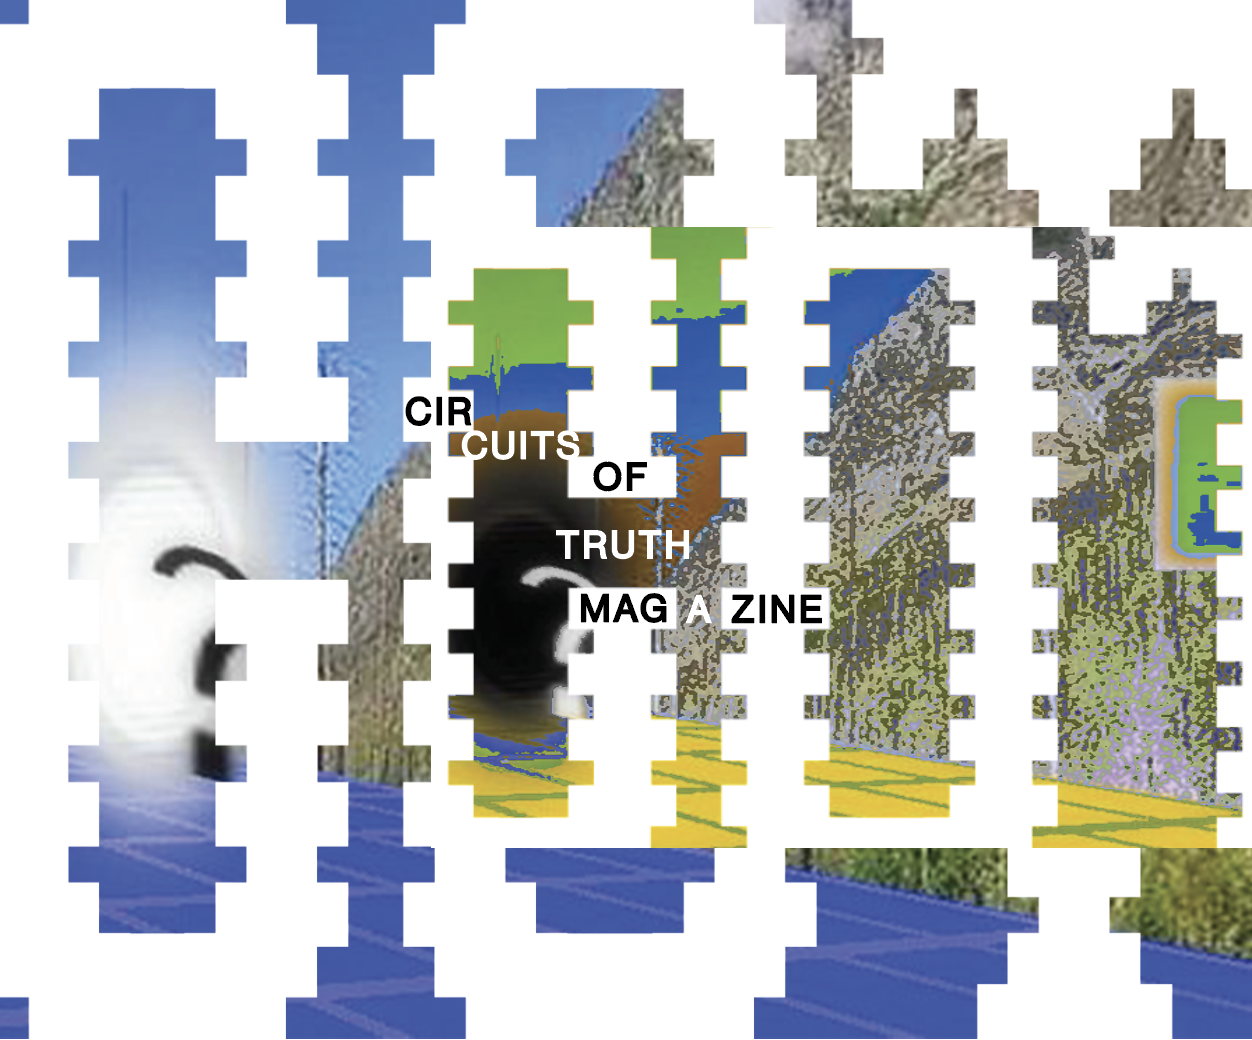
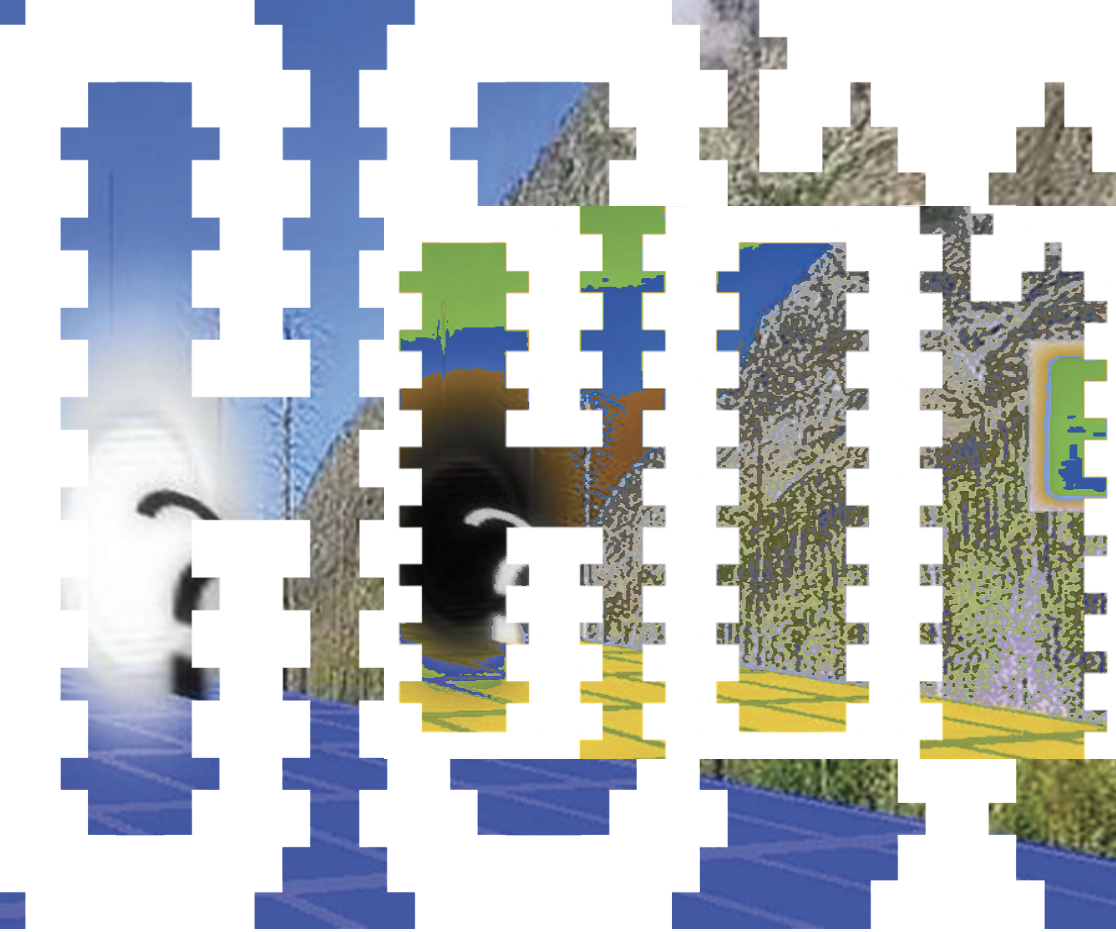
post

diff --git a/circuitsoftruthh/style.css b/circuitsoftruthh/style.css
@@ -45,12 +45,15 @@ body.html {
   top: 0%;
   width: 300px; /* Adjust the width as needed */
   z-index: 999;
+  font-size: 30px;
+  mix-blend-mode: difference;
+  color: WHITE;
 }
 
 .sticky-header.left {
   left: 0;
   font-family: "NeueHaasDisplay-Light";
-  font-size: 10px;
+  font-size: 30px;
   font-weight: bolder;
   text-align: left;
 }
@@ -58,7 +61,7 @@ body.html {
 .sticky-header.right {
   right: 0;
   font-family: "NeueHaasDisplay-Light";
-  font-size: 10px;
+  font-size: 30px;
   font-weight: bolder;
   text-align: right;
 }
@@ -66,6 +69,39 @@ body.html {
 .sticky-header.transparent {
   background-color: transparent;
 }
+
+div.masthead {
+height: 120vh;
+width: 100%;
+background-image: url("cotpng.png");
+background-size: contain;
+background-repeat: no-repeat;
+background-position: center;
+display: flex;
+flex-wrap: wrap;
+align-items: center;
+justify-content: center;
+}
+
+div.mastheadtitle {
+  width: 200px;
+  font-size: 30px;
+  font-family: "NeueHaasDisplay-Light";
+}
+
+span.title1 {
+  color: white;
+}
+
+span.title2 {
+  color: black;
+  margin-right: 40px;
+}
+
+span.title3 {
+  color: white;
+}
+
 
 .button__container {
   height: 100px;
@@ -117,14 +153,14 @@ header h1 img {
   max-width: 100%; 
 }
 
-header h2 {
+header p {
   font-family: "NeueHaasDisplay-Light";
   font-size: 30px;
   text-align: justify;
   padding: 20px;
   margin: 0;
   bottom: 0;
-  color: black;
+  color: blue;
 }
 
 header h3 {

diff --git a/circuitsoftruthh/index.html b/circuitsoftruthh/index.html
@@ -12,16 +12,21 @@
 <body>
   <body>
     <header class="sticky-header left">
-      <h1>CIRCUITS OF TRUTH</h1>
+      CIRCUITS OF TRUTH
     </header>
 
     <header class="sticky-header right">
-      <h1>MAGAZINE</h1>
+      MAGAZINE
     </header>
 
-  <header>
-    <img src="mastheadfinal.png" alt="Masthead Image">
-  </header>
+
+    <div class="masthead">
+   <div class="mastheadtitle">
+   <span class="title1">Circuits</span> <br>
+   <span class="title2">of</span> 
+   <span class="title3">Truth</span> <br>
+  </div>
+    </div>
 
   <div class="button__container">
     <div class="button">
@@ -29,14 +34,14 @@
     </div>
   
   <div class="header">
-    <h2>CIRCUITS OF TRUTH IS A MAGAZINE THAT LOOKS AT THE SATURATED CYBER-SPACE OF POST-TRUTH 
+    <p>CIRCUITS OF TRUTH IS A MAGAZINE THAT LOOKS AT THE SATURATED CYBER-SPACE OF POST-TRUTH 
       POLITICS AND ATTEMPS TO REVERSE ENGINEER THE 
       MECHANISMS OF TRUTH PRODUCTION.
       
-      READ ALONG TO SEE JUST HOW 
+      READ ALONG TO SEE HOW 
       SOCIAL MEDIA PLATFORMS USE 
       VERIFICATION MARKS AND ENGAGEMENT RATES TO 
-      DETERMINE WHAT IS CONSIDERED “TRUE”.</h2>
+      DETERMINE WHAT IS CONSIDERED “TRUE”.</p>
 </div>
 
 <div class="button__container">
